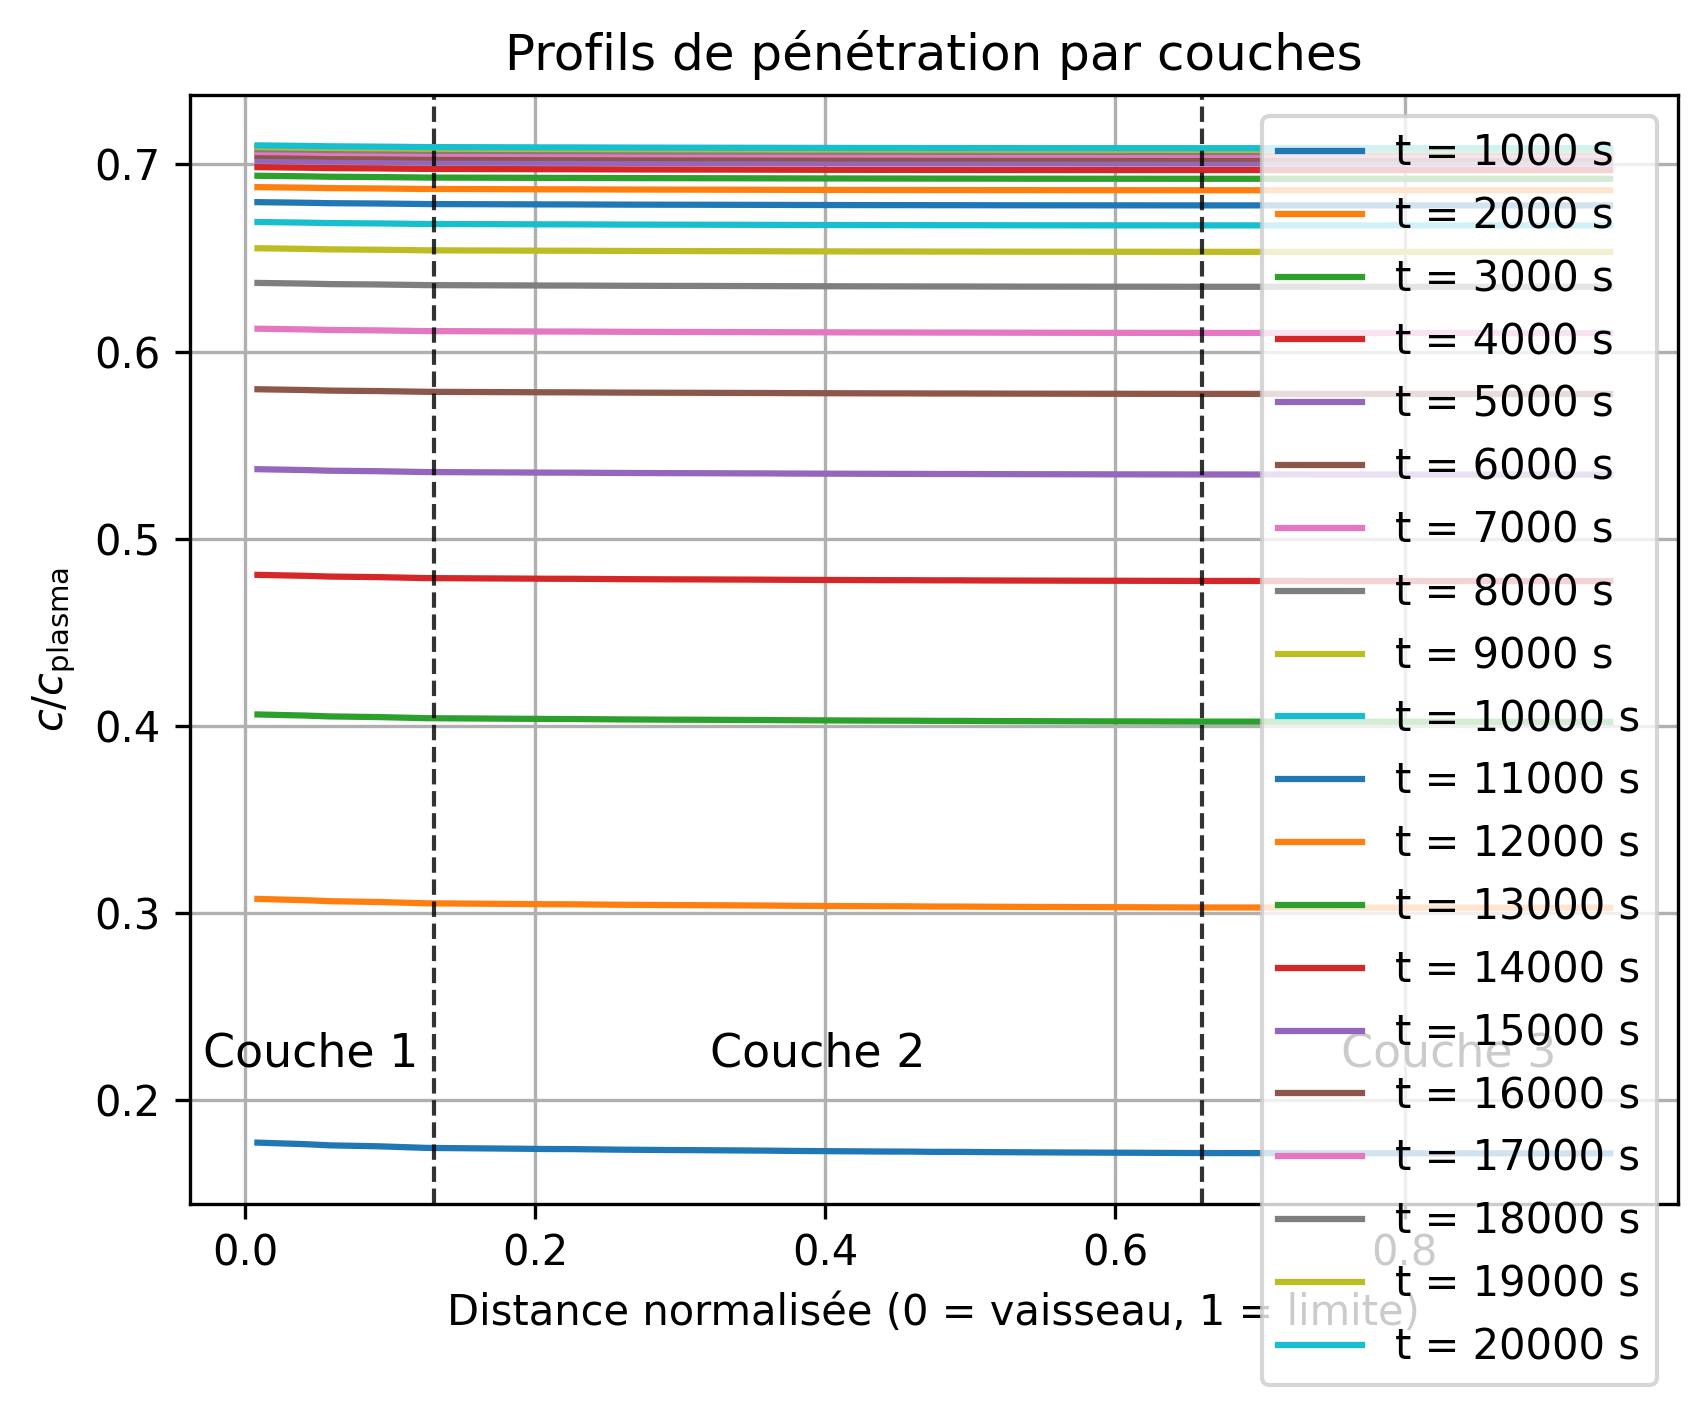
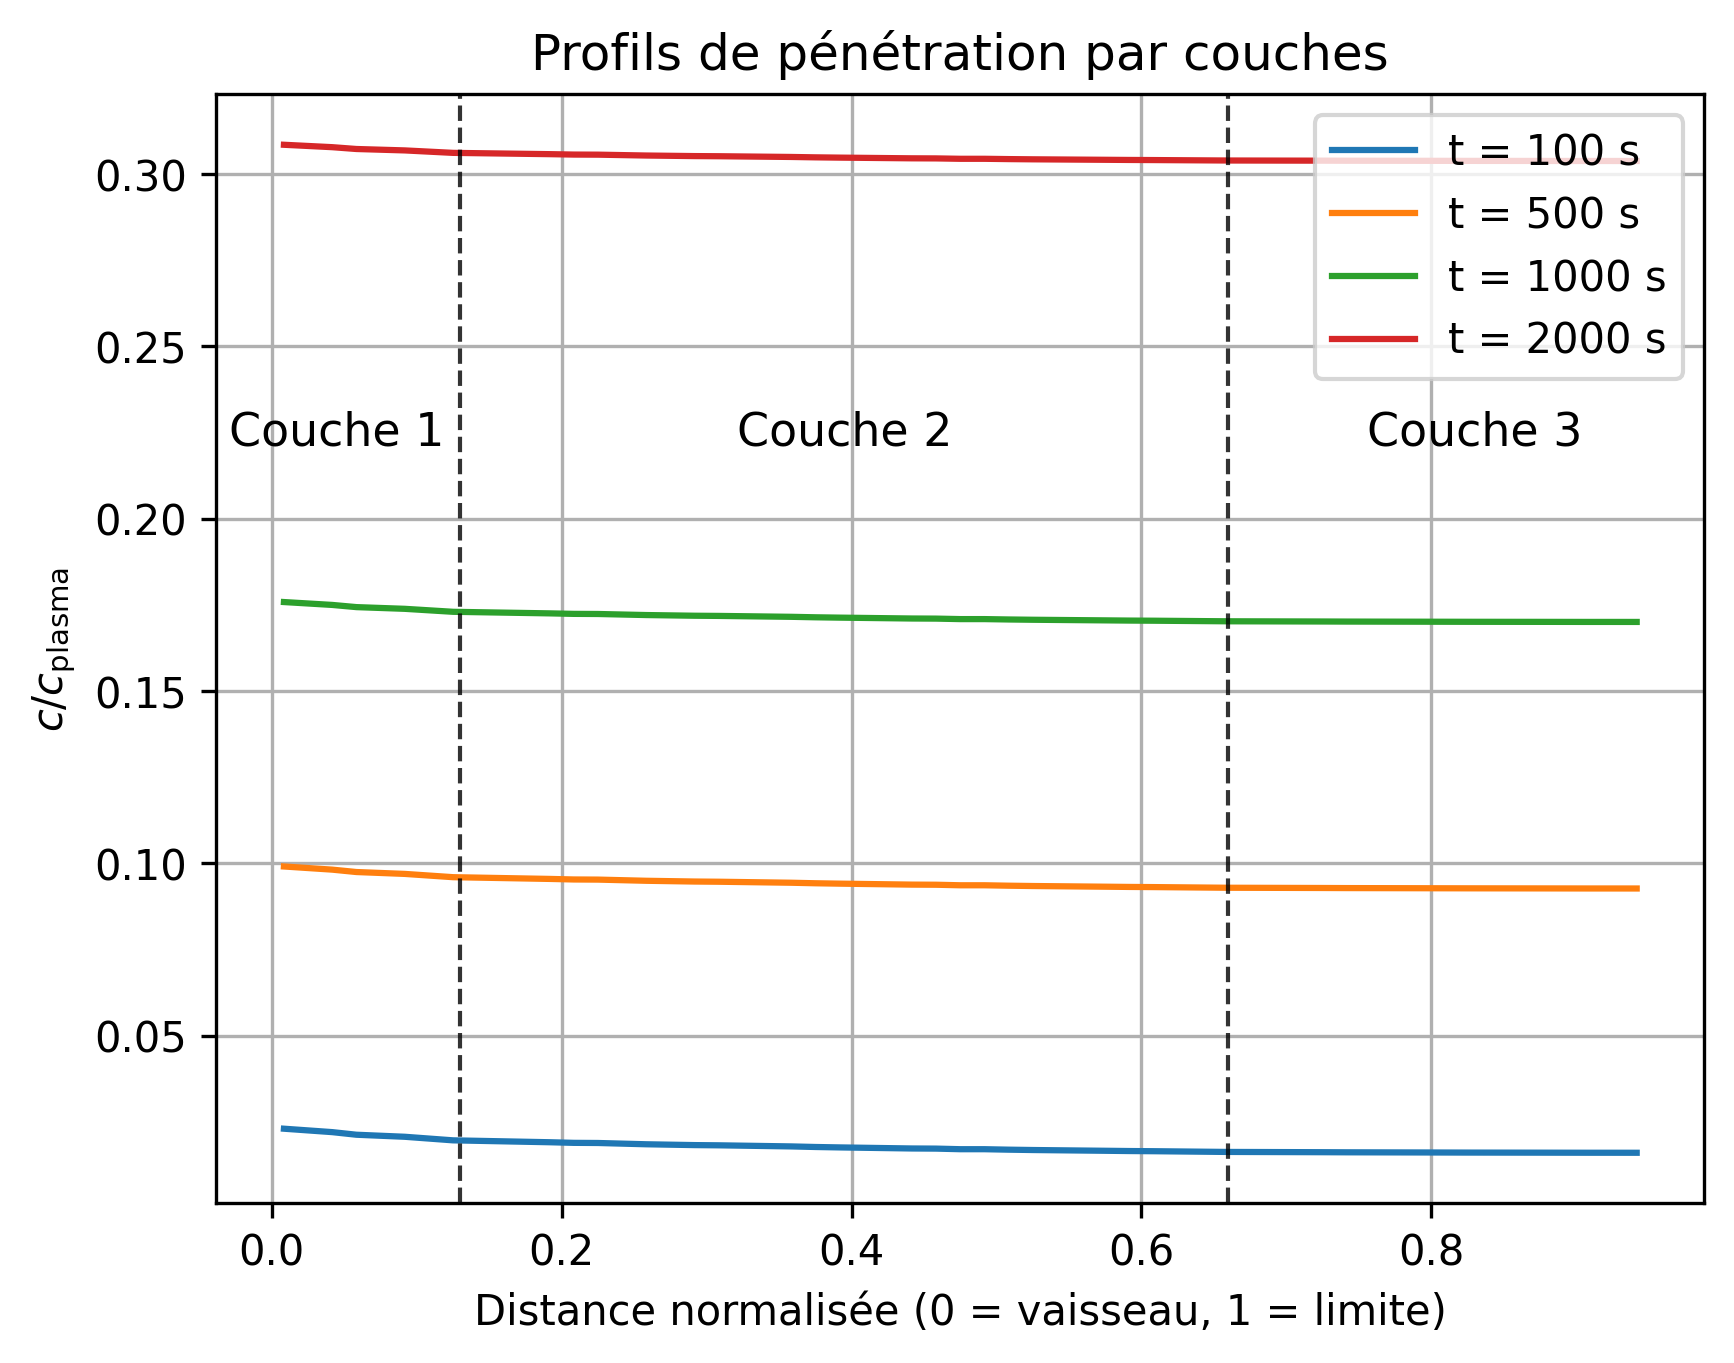
images diffusion milticouche

Changed region(s): [[0.0, 0.0, 0.9936, 0.9861]]

diff --git a/main_multilayer.py b/main_multilayer.py
@@ -114,7 +114,7 @@ def main():
     
     # Paramètres temporels
     parser.add_argument("--order", type=int, default=1, help="Ordre des éléments finis")
-    parser.add_argument("--dt", type=float, default=20.0)
+    parser.add_argument("--dt", type=float, default=30.0)
     parser.add_argument("--nsteps", type=int, default=1000)
     parser.add_argument("--theta", type=float, default=1.0)
     
@@ -270,7 +270,7 @@ def main():
 
 
     # Instants auxquels on garde une copie pour tracer les profils
-    target_profile_times = list(np.arange(1000.0, T + 1, 1000.0)) 
+    target_profile_times = [100.0, 500.0, 1000.0, 2000.0] 
     snapshot_steps = sorted(
         {
             min(args.nsteps, max(0, int(round(target_time / dt))))
@@ -319,14 +319,6 @@ def main():
 
         ax.set_aspect('auto')
         ax.set_title(f"Temps: {(step + 1) * args.dt:.0f} s")
-        
-        if step + 1 in snapshot_steps:
-            fig.savefig(
-                f"diffusion_multicouche_{int(times[step + 1])}s.png",
-                dpi=300,
-                bbox_inches="tight"
-            )
-
         plt.draw()
         plt.pause(0.1)
 
@@ -381,7 +373,6 @@ def main():
     
     print_diffusion_metrics(layer_props, args.L, layer_ratios)
     print("Done.")
-    
     plt.show()
     gmsh_finalize()
 